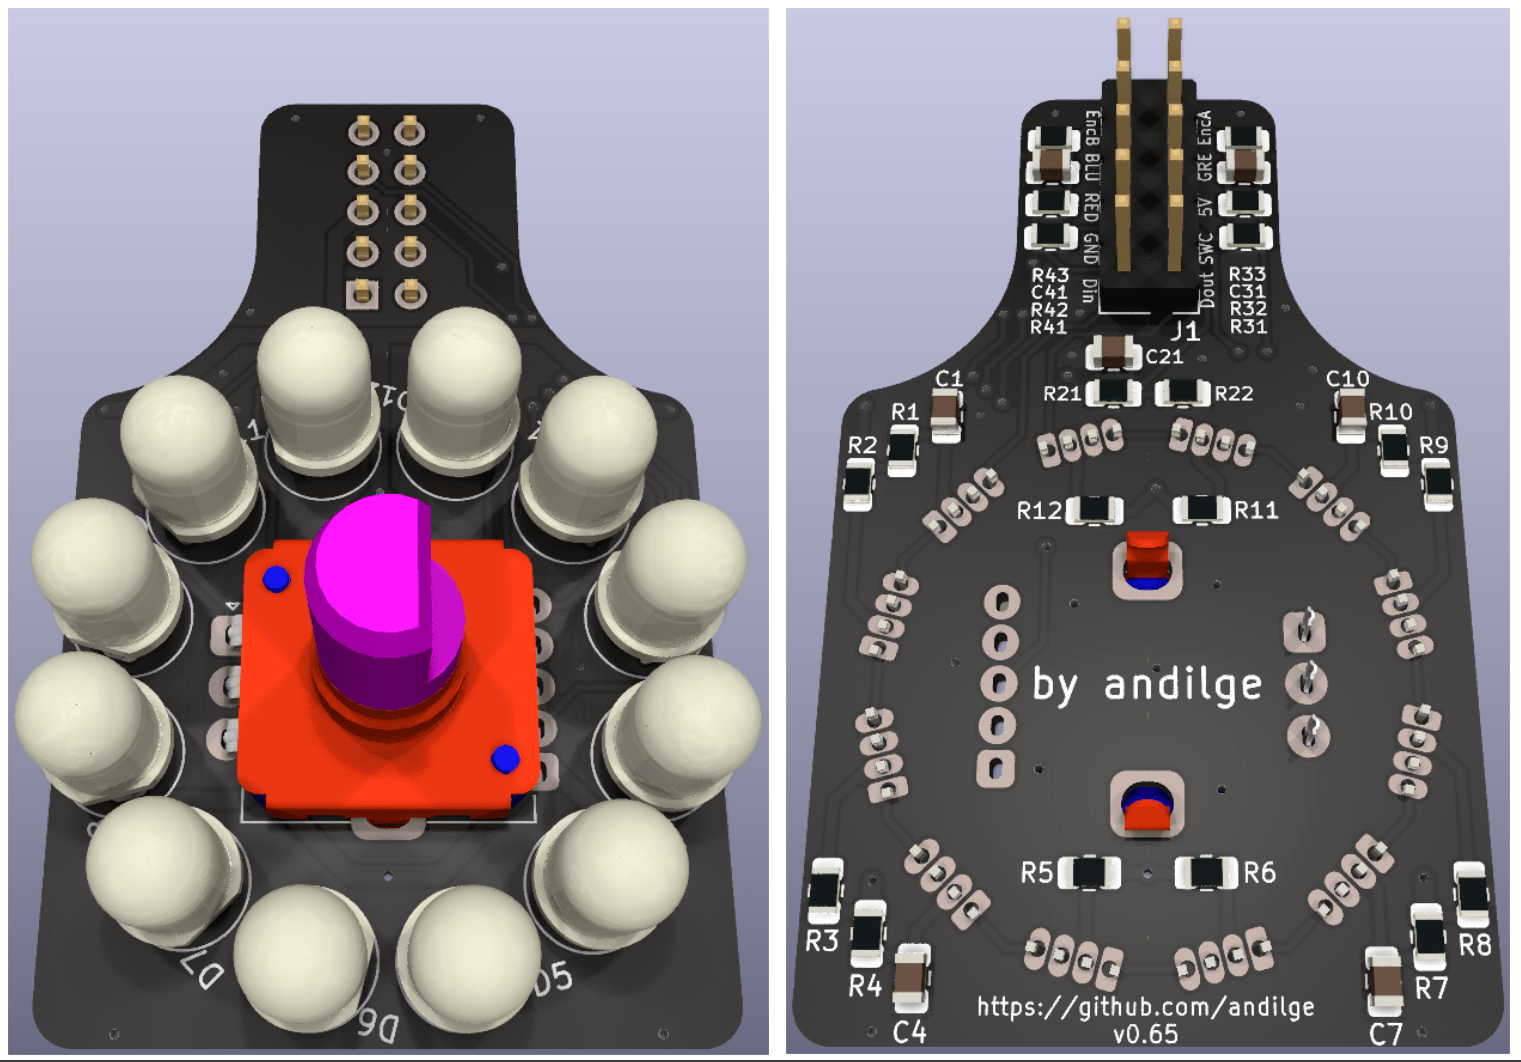
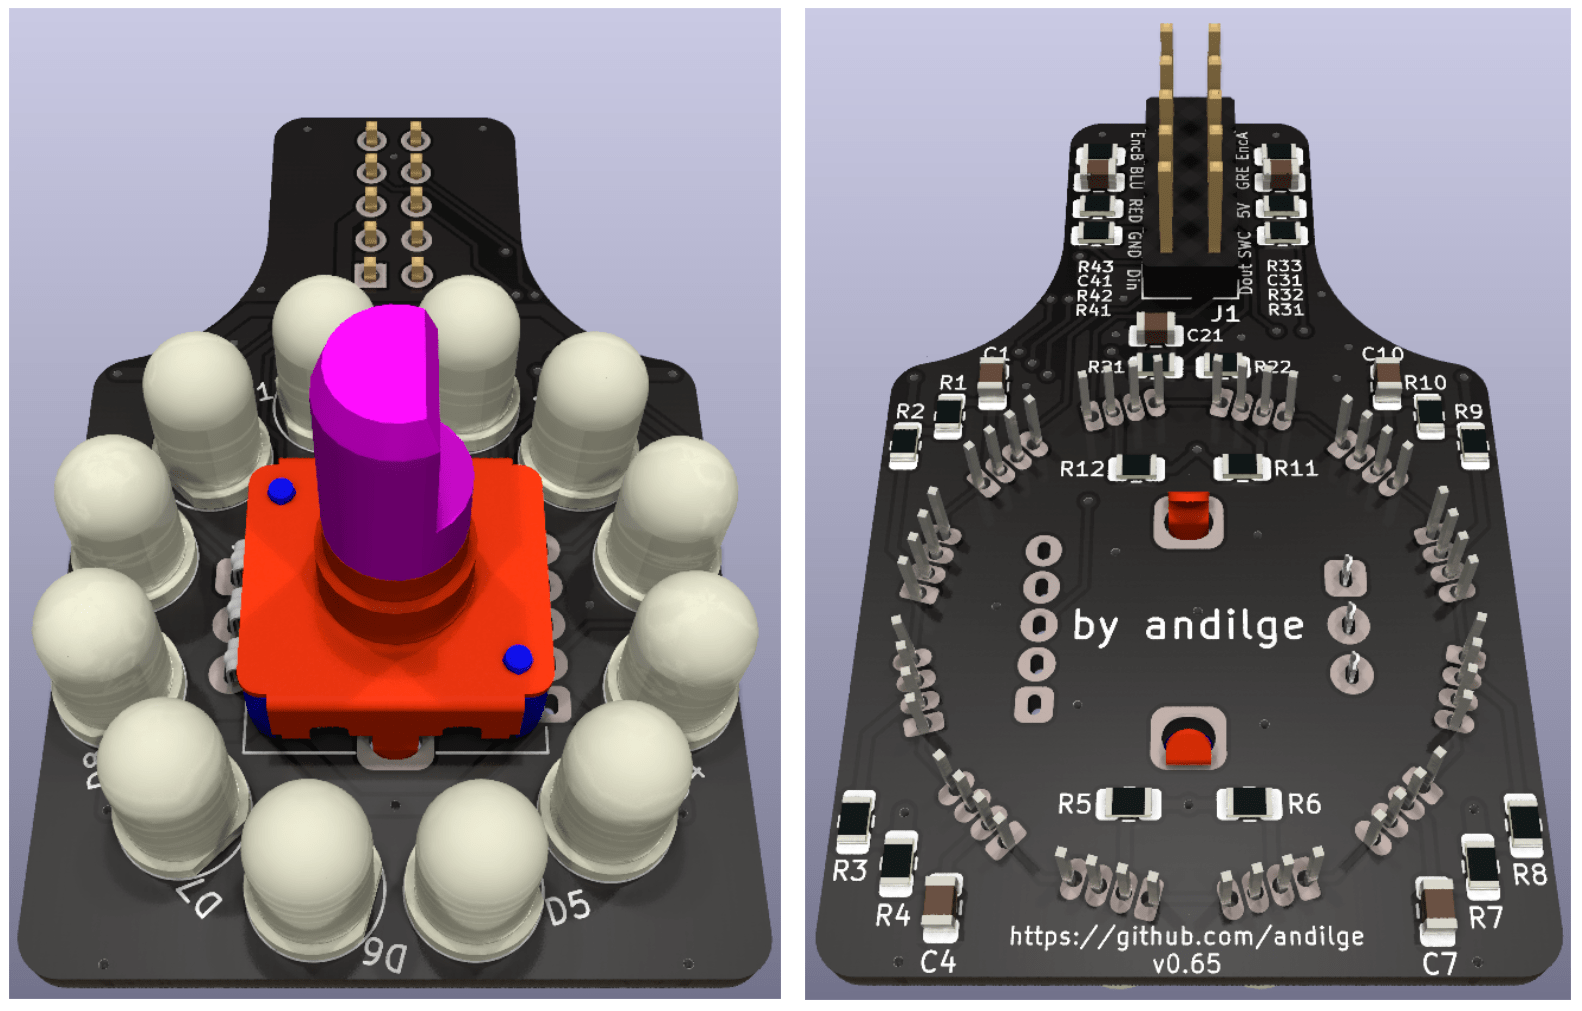
fixing offset on 3ds and new immages 2

diff --git a/README.md b/README.md
@@ -7,7 +7,7 @@ The ultimate DIY human light controller interface plenty of colored LEDs.
 Shoutout to [ezcGman](https://github.com/ezcGman "ezcGman") for the assistance with the KiCad symbols and footprints as well as hints about thermal reliefs on pads.
 
 ## KiCad dependencies
-This project uses custom KiCad symbols and footprints. Follow folder 'libs' with all details.
+This project uses custom KiCad symbols and footprints and 3D models. Follow folder 'libs' with all details.
 
 ## Parts list
 The folder 'gerber-and-bom' contains the zipped production files for pcb ordering and intercative bill of material ibom.html with purchase links for the components.
